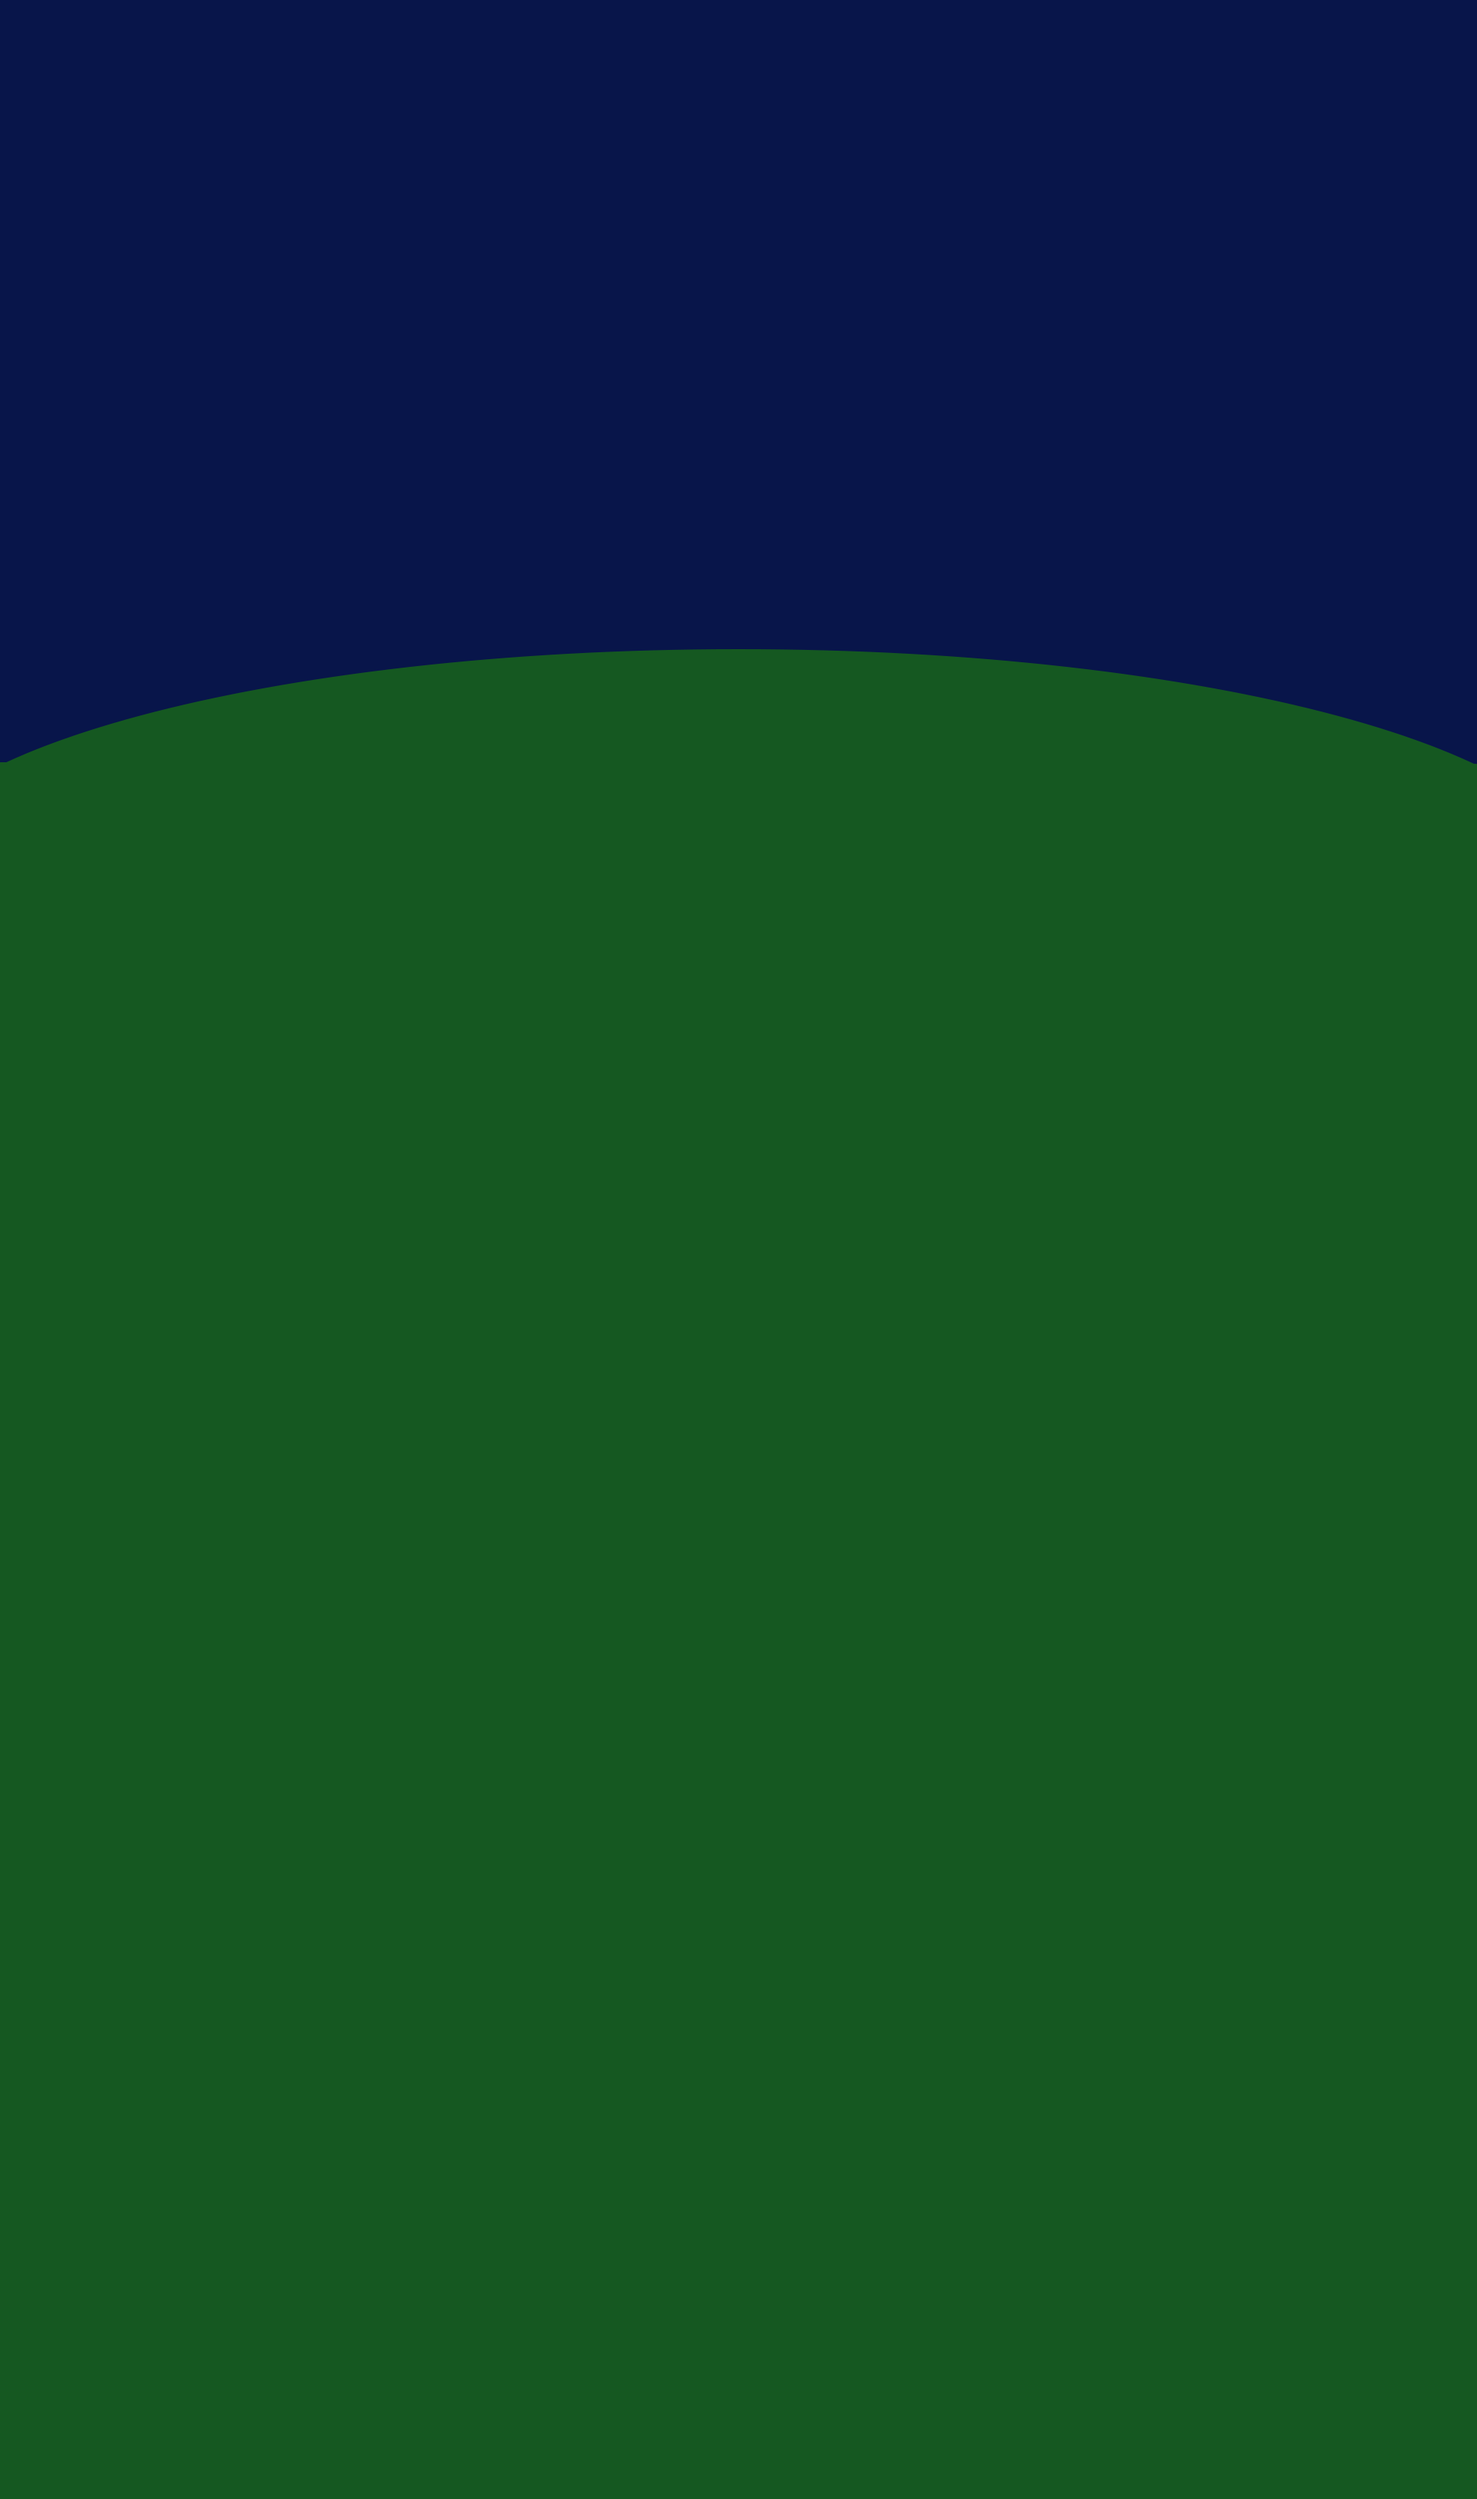
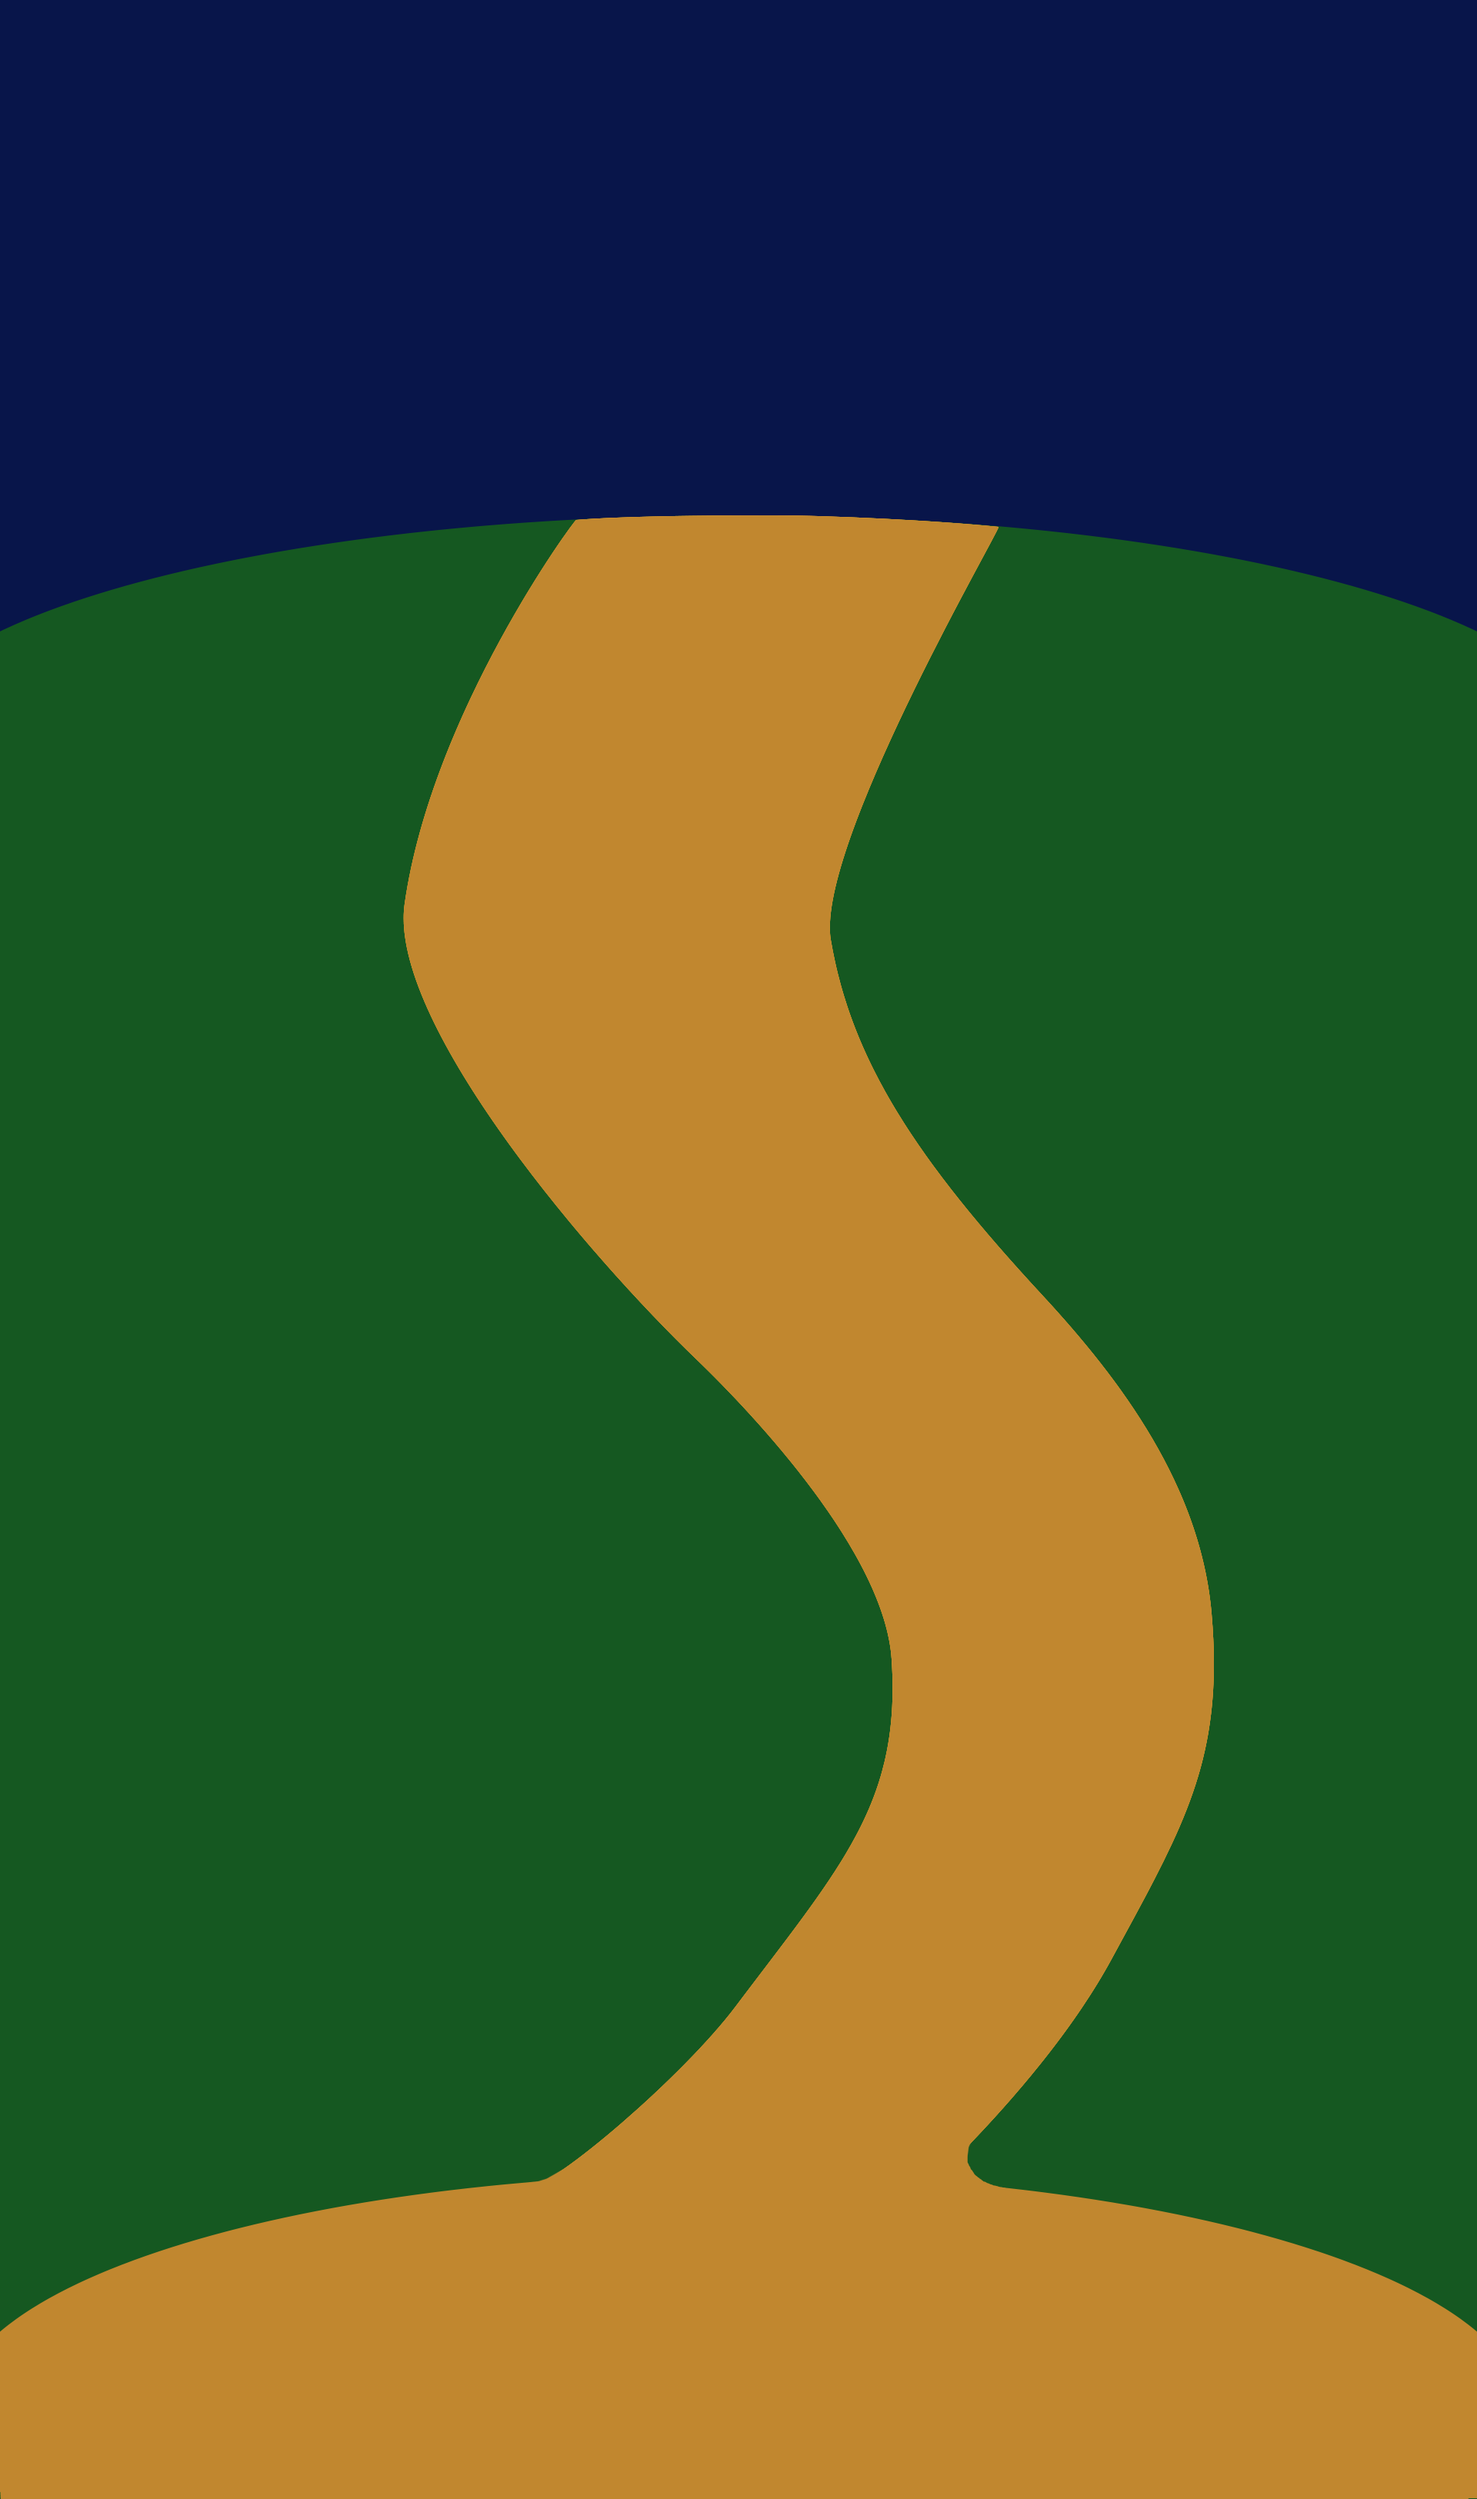
background image

diff --git a/index.html b/index.html
@@ -3,13 +3,16 @@
 
 <head>
     <link rel="stylesheet" href="portfolio-stylesheet.css">
-    <link href="https://fonts.googleapis.com/css2?family=Lilita+One&display=swap" rel="stylesheet"
+    <link href="https://fonts.googleapis.com/css2?family=Lilita+One&display=swap" rel="stylesheet">
     <!--<script src="protfolio-script.js"></script>-->
     <title>Darren Drew • Portfolio</title>
     <link rel="icon" type="image/x-icon" href="#">
 </head>
 
 <body>
+    <span class="navBar">
+        <img class="darkLightMode" src="images/moon.png">
+    </span>
     <span class="profile">
         <span class="welcome">
             Welcome
@@ -18,6 +21,12 @@
             I'm Darren Drew • An aspiring web developer and student at York University living in Toronto, ON
         </span>
     </span>
+    <span class="projects">
+        <img class="signProjects" src="images/signProjects.png">
+    </span>
+    <footer>
+        <span>Type here</span>
+    </footer>
 </body>
 
 </html>

diff --git a/portfolio-stylesheet.css b/portfolio-stylesheet.css
@@ -2,16 +2,54 @@
     font-family: 'Lilita One', cursive;
 }
 
+body {
+    background-image: url("images/background.png");
+    background-repeat: no-repeat;
+    background-size: cover;
+    background-attachment: scroll;
+    overflow-y: scroll;
+}
+
+.darkLightMode {
+    width: 8vw;
+    height: auto;
+    position: absolute;
+    right: 3vw;
+    top: 3vw;
+}
+
+.darkLightMode:hover {
+    filter: brightness(1.2);
+    cursor: pointer;
+}
+
+
 .profile {
     display: flex;
     flex-direction: column;
-}
-
-.welcome,
-.about {
-    margin: 10px 0;
+    /*color: rgb(218, 223, 223);*/
+    color: rgb(218, 223, 223);
+    /*border: black solid 1px;*/
+    margin: 7vw 15vw 0 15vw;
 }
 
 .welcome {
-    font-size: 30px;
+    font-size: 9vw;
+}
+
+.about {
+    font-size: 3vw;
+}
+
+.signProjects {
+    width: 15vw;
+    height: auto;
+    margin-left: 62.5vw;
+    margin-top: 4vw;
+}
+
+footer {
+    color: white;
+    position: absolute;
+    bottom: 1vw;
 }
